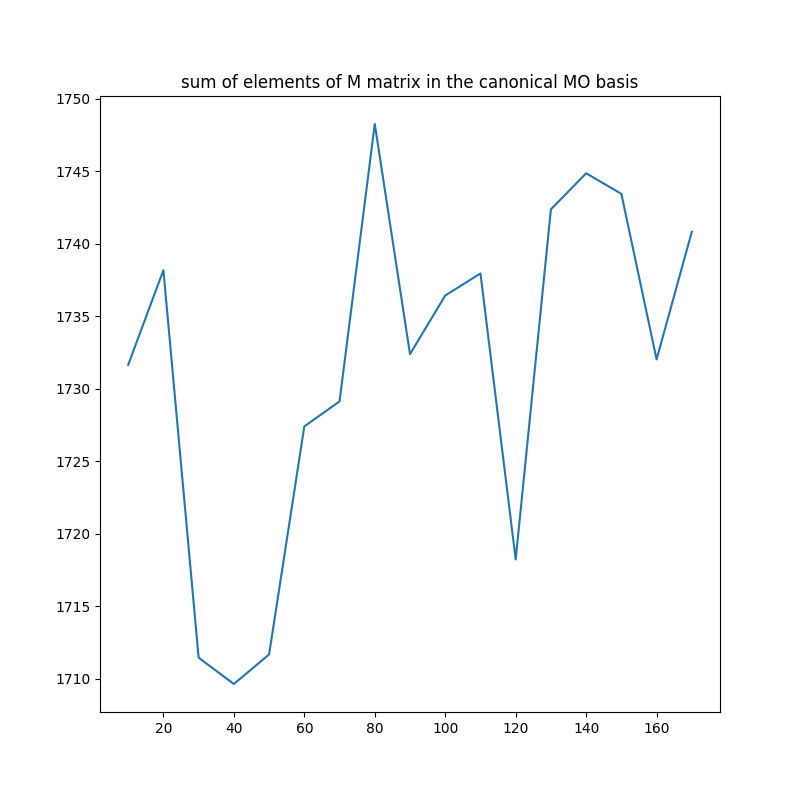
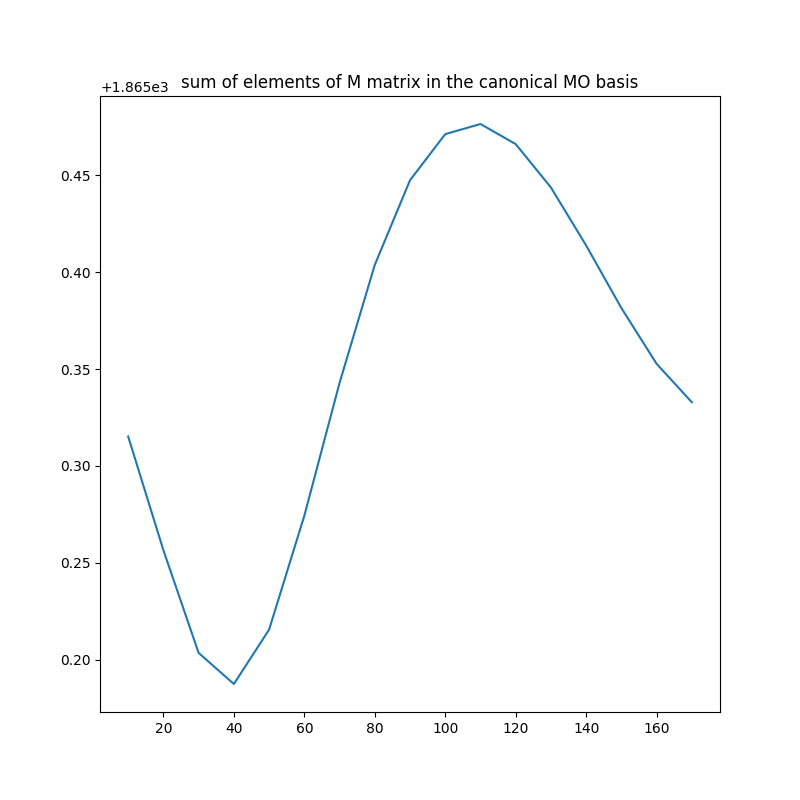
kkkk

diff --git a/prop_pol/prop_pol_H2O2.py b/prop_pol/prop_pol_H2O2.py
@@ -23,22 +23,23 @@ for ang in range(1,18):
             O2   1 1.45643942
             H3   2 0.97055295  1 99.79601616
             H4   1 0.97055295  2 99.79601616  3 {}
-            '''.format(ang*10), basis='ccpvdz')
+            '''.format(ang*10), basis='ccpvdz', verbose=0)
 
     mf = scf.RHF(mol).run()
 
     ppobj = pp(mf)
-#    pol_prop = ppobj.polarization_propagator(0,3)
-    pol_prop = np.sum(np.diag(np.linalg.inv(ppobj.m_matrix_triplet)))
+    pol_prop = ppobj.polarization_propagator(2,3)
+#    pol_prop = np.sum(np.diag(np.linalg.inv(ppobj.m_matrix_triplet)))
     M_list[0].append(ang*10)#, np.sum(m)])#,  "Propagador Pol"])
     M_list[1].append(pol_prop)
-    fig = plt.figure(figsize=(8, 8))
 
 
+fig = plt.figure(figsize=(8, 8))
 x = M_list[0]
 y = M_list[1]
 plt.plot(x,y)
 plt.title("J(H-H) coupling without any constant, in the canonical MO basis")
 
-plt.savefig('J_H2O2.png')
+#plt.savefig('J_H2O2.png')
+plt.show()
 

diff --git a/src/polaritization_propagator.py b/src/polaritization_propagator.py
@@ -53,7 +53,7 @@ class Prop_pol:
 
         m = a + b
         m = m.reshape(nocc*nvir,nocc*nvir, order='C')
-        
+        #m = np.diag((np.diag(m)))
         return m
 
     def h1_fc_pyscf(self,atmlst):
@@ -71,7 +71,6 @@ class Prop_pol:
             h1.append(fac * numpy.einsum('p,i->pi', orbv[ia], orbo[ia]))
         return mo
 
-
     def h1_fc(self,num_atom):
         mo_coeff = self.mf.mo_coeff
         mo_occ = self.mf.mo_occ
@@ -86,14 +85,12 @@ class Prop_pol:
         h1 = fac*numpy.einsum('p,i->pi', orbv, orbo).ravel()
         return h1
 
-
     def uniq_atoms(self, nuc_pair):
         atm1lst = sorted(set([i for i,j in nuc_pair]))
         atm2lst = sorted(set([j for i,j in nuc_pair]))
         atm1dic = dict([(ia,k) for k,ia in enumerate(atm1lst)])
         atm2dic = dict([(ia,k) for k,ia in enumerate(atm2lst)])
         return atm1dic, atm2dic
-
 
 #    @property
     def polarization_propagator(self, nuc1, nuc2):
